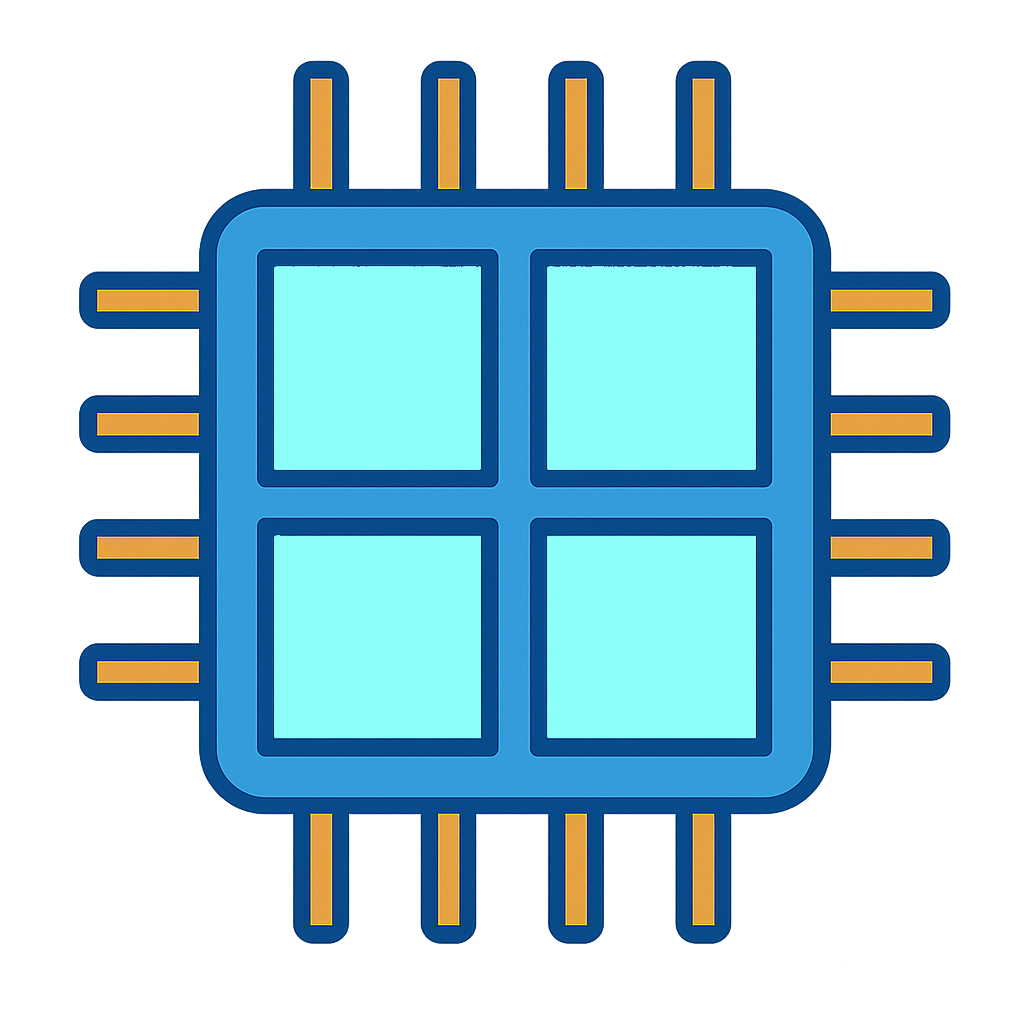
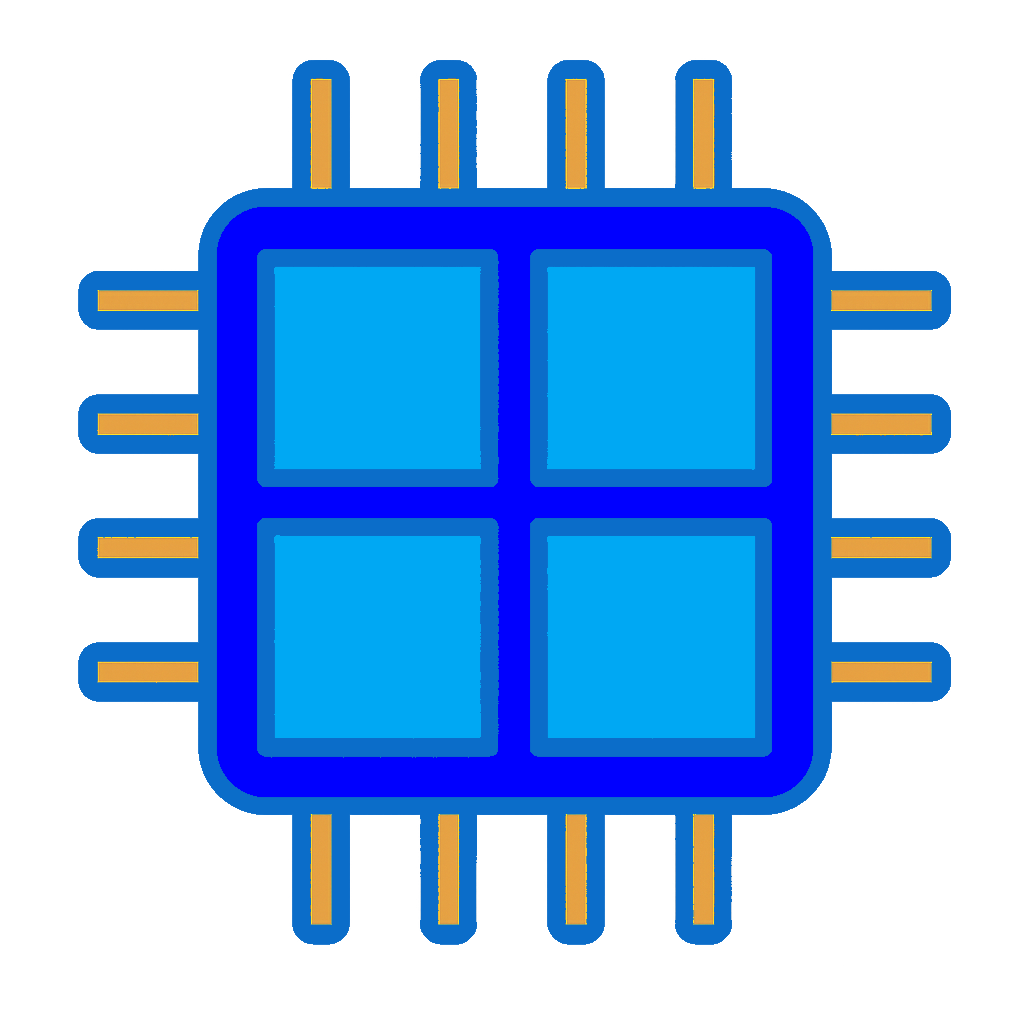
SleekBar now accepts a color to use
The VRAM bar is now dark green. Modified the CPU icons to better match
the colors of the SleekGauges they are on.

diff --git a/src/figure/SleekBar.java b/src/figure/SleekBar.java
@@ -19,6 +19,7 @@ import src.util.Utils;
 public final class SleekBar extends Figure
 {
     private final Sensor sensor;
+    private final Color color;
     private final String title;
     private final int roundness;
     private final int thickness;
@@ -28,6 +29,7 @@ public final class SleekBar extends Figure
      * Creates a new SleekBar.
      *
      * @param sensor The sensor to display the data of
+     * @param color The color to set this bar to
      * @param dimension The preferred size to set this Figure
      * @param title The title to display at the bottom of this bar - this should be kept very short
      * @param roundness The higher the value, the more rounded the edges of the bar will be. A value of 0 will create
@@ -35,10 +37,11 @@ public final class SleekBar extends Figure
      * @param thickness The pixel thickness of the border of the bar
      * @param separation How many pixels of a gap to leave between the bar's border and the edge of the panel
      */
-    public SleekBar(Sensor sensor, Dimension dimension, String title, int roundness, int thickness, int separation)
+    public SleekBar(Sensor sensor, Color color, Dimension dimension, String title, int roundness, int thickness, int separation)
     {
         super(this.sensor = sensor);
         this.title = title;
+        this.color = color;
         this.roundness = roundness;
         this.thickness = thickness;
         this.separation = separation;
@@ -71,7 +74,7 @@ public final class SleekBar extends Figure
 
         //fill the interior of the bar up to the value
         g2d.setClip(rect);
-        g2d.setColor(Color.MAGENTA);
+        g2d.setColor(this.color);
         g2d.fillRect(0, fillHeight, this.getWidth(), this.getHeight());
         g2d.setClip(null);
 

diff --git a/src/SensorPanel.java b/src/SensorPanel.java
@@ -118,9 +118,8 @@ public final class SensorPanel
                                          ramPanel.getPreferredSize().height - ramPanel.getBorderBufferSpace());
 
         //RAM sensors
-        SleekBar ramBar = new SleekBar(Sensor.RAM_USAGE, ramDim, "RAM", 50, Constants.Border.THICKNESS, 4);
-        SleekBar vramBar = new SleekBar(Sensor.VRAM_USAGE, ramDim, "VRAM", 50, Constants.Border.THICKNESS, 4);
-
+        SleekBar ramBar = new SleekBar(Sensor.RAM_USAGE, Color.MAGENTA, ramDim, "RAM", 50, Constants.Border.THICKNESS, 4);
+        SleekBar vramBar = new SleekBar(Sensor.VRAM_USAGE, new Color(50, 100, 50), ramDim, "VRAM", 50, Constants.Border.THICKNESS, 4);
         GridBagConstraints ramGbc = new GridBagConstraints();
         ramGbc.gridx = 0;
 
